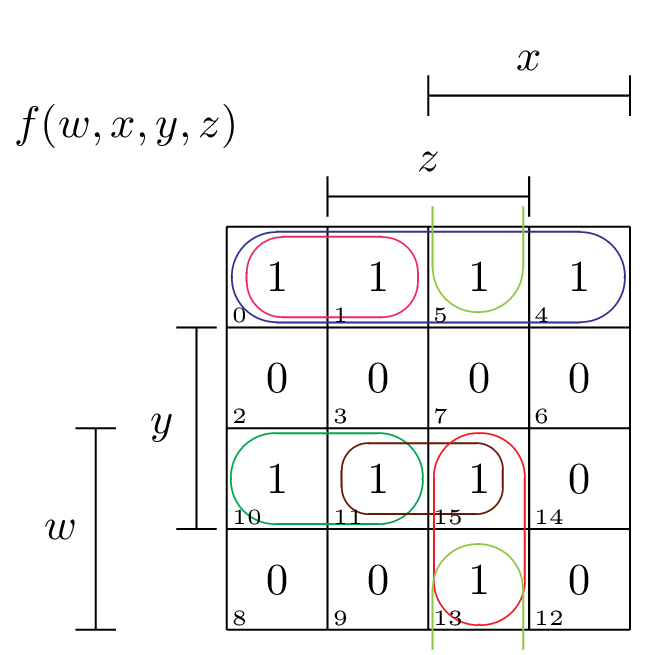
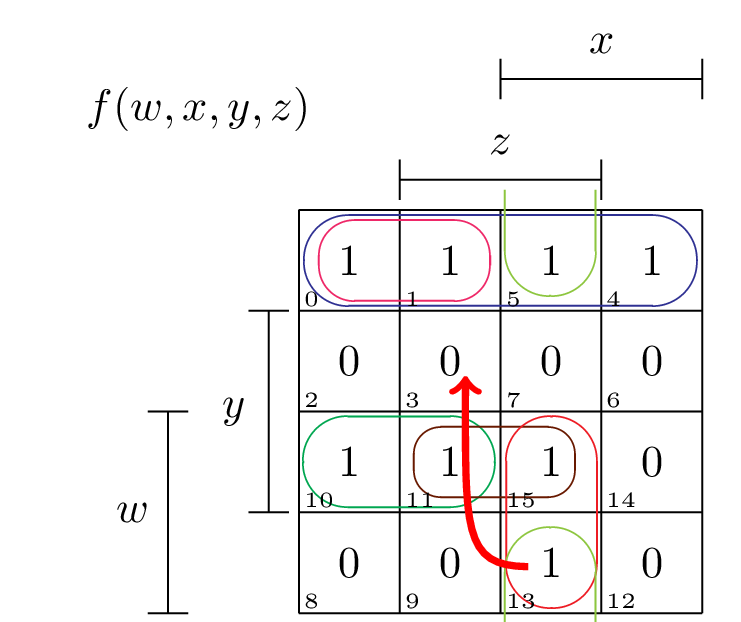
added path in karnough map

diff --git a/tikz/karnaugh-map/karnaugh-map.tex b/tikz/karnaugh-map/karnaugh-map.tex
@@ -1,41 +1,55 @@
-\documentclass{article}
-\usepackage[pdftex,active,tightpage]{preview}
-\setlength\PreviewBorder{2mm}
+\documentclass[border=2pt]{standalone}
 
 \usepackage[dvipsnames]{xcolor}
 \input{kvmacros}
 
+\usepackage{tikz}
+\usetikzlibrary{calc}%
+\newcommand{\tikzmark}[1]{%
+    \tikz[overlay, remember picture, baseline] \node (#1) {};%
+}
+
+\newcommand{\DrawArrow}[3][]{%
+    \begin{tikzpicture}[overlay,remember picture]
+        \draw[
+                ->, thick,% distance=\ArcDistance,
+                %shorten <=\ShortenBegin, shorten >=\ShortenEnd,
+                %out=\OutAngle, in=\InAngle, Arrow Style, #2
+                #1
+            ] 
+                ($(#2)+(-0.50em,3.5ex)$) to 
+                ($(#3)+(1.5em,0.0ex)$);
+    \end{tikzpicture}% <-- important
+}
+
 \begin{document}
-\begin{preview}
-	\karnaughmap{4}{$f(w,x,y,z)$}{{$w$}{$x$}{$y$}{$z$}}%
-	{
-		1100
-		1100
-		0011
-		0101
-	}
-	{
-		% Long one at top
-		\textcolor{Blue}{
-			\put(2,3.5){\oval(3.9,0.9)[]}
-		}
-		\textcolor{WildStrawberry}{
-			\put(0.9,3.5){\oval(1.7,0.8)[]}
-		}
-		% two left
-		\textcolor{Green}{
-			\put(0.7,1.5){\oval(1.9,0.9)}
-		}
-		\textcolor{Sepia}{
-			\put(1.5,1.5){\oval(1.6,0.7)}
-		}
-		\textcolor{Red}{
-			\put(1.92,1){\oval(0.9,1.9)}
-		}
-		\textcolor{LimeGreen}{
-			\put(1.76,-0.2){\oval(0.9,2.1)[t]}
-			\put(1.76,4.2){\oval(0.9,2.1)[b]}
-		}
-	}
-\end{preview}
+    \karnaughmap{4}{$f(w,x,y,z)$}{{$w$}{$x$}{$y$}{$z$}}%
+    {
+        1100
+        1100
+        0011
+        0101
+    }
+    {
+        \textcolor{Blue}{
+            \put(2,3.5){\oval(3.9,0.9)[]}
+        }
+        \textcolor{WildStrawberry}{
+            \put(0.9,3.5){\oval(1.7,0.8)[]}
+        }
+        \textcolor{Green}{
+            \put(0.7,1.5){\tikzmark{11}\oval(1.9,0.9)}
+        }
+        \textcolor{Sepia}{
+            \put(1.5,1.5){\oval(1.6,0.7)}
+        }
+        \textcolor{Red}{
+            \put(1.92,1){\oval(0.9,1.9)}
+        }
+        \textcolor{LimeGreen}{
+            \put(1.76,-0.2){\tikzmark{13}\oval(0.9,2.1)[t]}
+            \put(1.76,4.2){\oval(0.9,2.1)[b]}
+        }
+    }
+\DrawArrow[red, ultra thick, out=-180, in=-90, distance=1.5em, shorten >= -4.5ex]{13}{11}
 \end{document}

diff --git a/tikz/karnaugh-map/Readme.md b/tikz/karnaugh-map/Readme.md
@@ -1,0 +1,1 @@
+Thanks to Peter Grill for his help on [tex.stackexchange.org](http://tex.stackexchange.com/a/104285/5645)!
